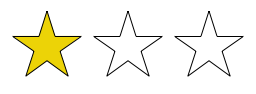
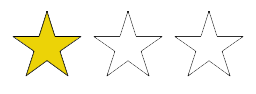
made base code for animating stars in regrowphase

diff --git a/web/source/regrowthUI.dart b/web/source/regrowthUI.dart
@@ -1,0 +1,154 @@
+part of TOTC;
+
+class EcosystemBadge extends Sprite implements Animatable{
+  
+  ResourceManager _resourceManager;
+  Juggler _juggler;
+  Game _game;
+  Ecosystem _ecosystem;
+  
+  Bitmap foodWeb;
+  Bitmap stars0;
+  Bitmap stars1;
+  Bitmap stars2;
+  Bitmap stars3;
+  
+  
+  var _sardineStatusText;
+  var _tunaStatusText;
+  var _sharkStatusText;
+  
+  int rating, animatedRating;
+      
+  EcosystemBadge(this._resourceManager, this._juggler, this._game, this._ecosystem) {
+  
+    initalizeObjects();
+
+  }
+  
+  bool advanceTime(num time){
+    return true;
+  }
+  
+  void showBadge(){
+    
+    rating = 2;
+    animatedRating = 0;
+    Tween t1 = new Tween(foodWeb, 1, TransitionFunction.linear);
+          t1.animate.alpha.to(1);
+    Tween t2 = new Tween(stars0, 1, TransitionFunction.linear);
+          t2.animate.alpha.to(1);
+          t2.onComplete = showStars;
+    _juggler.add(t1);
+    _juggler.add(t2);
+    
+    
+    
+    for(int i = 0; i < rating; i++){
+      
+    }
+    
+  }
+  
+  void hideBadge(){
+//    if(contains(foodWeb)) removeChild(foodWeb);
+  }
+  
+  void showStars(){
+    if(animatedRating == rating) return;
+    else{
+      
+      Bitmap toShow;
+      
+      if(animatedRating == 0) toShow = stars1;
+      else if(animatedRating == 1) toShow = stars2;
+      else if(animatedRating == 2) toShow = stars3;
+      
+      Tween t1 = new Tween(toShow, 1, TransitionFunction.easeInOutQuadratic);
+      t1.animate.alpha.to(1);
+      t1.onComplete = showStars;
+      _juggler.add(t1);
+      animatedRating++;
+    }
+    
+  }
+  
+  int determineRating(){
+    int rating;
+    
+    int sardineCount = _ecosystem._fishCount[Ecosystem.SARDINE];
+    int tunaCount = _ecosystem._fishCount[Ecosystem.TUNA];
+    int sharkCount = _ecosystem._fishCount[Ecosystem.SHARK];
+
+    if (sardineCount < 50)
+      _sardineStatusText = "Sardine populuation is endangered";
+    else if (sardineCount > Ecosystem.MAX_SARDINE-250)
+      _sardineStatusText = "Sardines are overpopulated";
+    else
+      _sardineStatusText = null;
+    
+    if (tunaCount < 50)
+      _tunaStatusText = "Tuna populuation is endangered";
+    else if (tunaCount > Ecosystem.MAX_TUNA-250)
+      _tunaStatusText = "Tunas are overpopulated";
+    else
+      _tunaStatusText = null;
+    
+    if (sharkCount < 50)
+      _sharkStatusText = "Shark populuation is endangered";
+    else if (sharkCount > Ecosystem.MAX_SARDINE-250)
+      _sharkStatusText = "Sharks are overpopulated";
+    else
+      _sharkStatusText = null;
+    
+    
+    
+    return 2;
+  }
+  
+  
+  void initalizeObjects(){
+    foodWeb = new Bitmap(_resourceManager.getBitmapData('foodWeb'));
+    foodWeb..pivotX = foodWeb.width/2
+           ..pivotY = foodWeb.height/2
+           ..x = _game.width/2 -100
+           ..y = _game.height/2
+           ..alpha = 0;
+    addChild(foodWeb);
+    
+    stars0 = new Bitmap(_resourceManager.getBitmapData('stars0'));
+    stars0..pivotX = stars0.width/2
+           ..pivotY = stars0.height/2
+           ..x = _game.width/2
+           ..y = _game.height/2
+           ..alpha = 0;
+    addChild(stars0);
+    
+    
+    stars1 = new Bitmap(_resourceManager.getBitmapData('stars1'));
+    stars1..pivotX = stars1.width/2
+           ..pivotY = stars1.height/2
+           ..x = _game.width/2
+           ..y = _game.height/2
+           ..alpha = 0;
+    addChild(stars1);
+    
+    
+    stars2 = new Bitmap(_resourceManager.getBitmapData('stars2'));
+    stars2..pivotX = stars2.width/2
+           ..pivotY = stars2.height/2
+           ..x = _game.width/2
+           ..y = _game.height/2
+           ..alpha = 0;
+    addChild(stars2);
+    
+    stars3 = new Bitmap(_resourceManager.getBitmapData('stars3'));
+    stars3..pivotX = stars3.width/2
+           ..pivotY = stars3.height/2
+           ..x = _game.width/2
+           ..y = _game.height/2
+           ..alpha = 0;
+    addChild(stars3);
+    
+  }
+}

diff --git a/web/source/game.dart b/web/source/game.dart
@@ -6,9 +6,9 @@ class Game extends Sprite implements Animatable{
   static const BUY_PHASE = 2;
   static const REGROWTH_PHASE = 3;
   
-  static const FISHING_TIMER_WIDTH = 150;
-  static const BUY_TIMER_WIDTH = 150;
-  static const REGROWTH_TIMER_WIDTH = 15;
+  static const FISHING_TIMER_WIDTH = 15;
+  static const BUY_TIMER_WIDTH = 15;
+  static const REGROWTH_TIMER_WIDTH = 150;
   
   static const timerPieRadius = 60;
   static const TUNA = 0;
@@ -18,7 +18,7 @@ class Game extends Sprite implements Animatable{
   //Timer Type
   static const BAR_TIMER = 0;
   static const PIE_TIMER = 1;
-  num timerType = PIE_TIMER;
+  num timerType = PIE_TIMER; // TOGGLE VARIABLE
   Bitmap pieTimerBitmap;
   
   ResourceManager _resourceManager;
@@ -48,9 +48,16 @@ class Game extends Sprite implements Animatable{
   int moneyTimer = 0;
   int moneyTimerMax = 2;
 
+  //REGROWTH INFO
+  static const LINE_GRAPH_INFO = 0;
+  static const BADGE_STAR_INFO = 1;
+  num regrowthInfoType = BADGE_STAR_INFO; // TOGGLE VARIABLE
+  
   Graph _teamAGraph, _teamBGraph;
   int _graphTimerMax = 25;
   int _graphTimer=0;
+  
+  EcosystemBadge badge;
   
   Shape timerGraphicA,timerGraphicB, timerPie;
   Shape sardineBar, tunaBar, sharkBar;
@@ -65,6 +72,8 @@ class Game extends Sprite implements Animatable{
   
   // Slider _teamASlider, _teamBSlider;
   // int sliderPrompt = 6;
+  
+ 
   
   Game(ResourceManager resourceManager, Juggler juggler, int w, int h) {
     _resourceManager = resourceManager;
@@ -86,6 +95,8 @@ class Game extends Sprite implements Animatable{
     _mask.width = width;
     _mask.height = height;
 
+    badge = new EcosystemBadge(_resourceManager, _juggler, this, _ecosystem);
+    
     addChild(_background);
     addChild(_ecosystem);
     addChild(_mask);
@@ -103,9 +114,18 @@ class Game extends Sprite implements Animatable{
     if (timerGraphicA.width<4) _nextSeason();
     else _decreaseTimer();
     
-    if (phase==REGROWTH_PHASE)
-      if (_graphTimer>_graphTimerMax) _redrawGraph();
-      else _graphTimer++;
+    
+    //Display growth information
+    if (phase==REGROWTH_PHASE){
+      
+      if(regrowthInfoType == LINE_GRAPH_INFO){
+        if (_graphTimer>_graphTimerMax) _redrawGraph();
+        else _graphTimer++;
+      }
+      else if (regrowthInfoType == BADGE_STAR_INFO){
+
+      }
+    }
     
     //Update the population bar graph size
     sardineBar.height = _ecosystem._fishCount[SARDINE]/2;
@@ -219,14 +239,21 @@ class Game extends Sprite implements Animatable{
       timerGraphicB.graphics.fillColor(Color.DarkRed);
       timerGraphicB.width = REGROWTH_TIMER_WIDTH;
       timerTextB.text = "Regrowth season";
+      
+      addChild(badge);
+      badge.showBadge();
+      
     }
     else if (phase==REGROWTH_PHASE) {
       phase = BUY_PHASE;
+      
+     
       
       teamAMoneyText.alpha = 1;
       teamBMoneyText.alpha = 1;
       _fleet.alpha = 1;
       _fleet.hideDock();
+      if (contains(badge)) removeChild(badge);
       if (contains(_teamAGraph)) removeChild(_teamAGraph);
       if (contains(_teamBGraph)) removeChild(_teamBGraph);
       

diff --git a/web/index.dart b/web/index.dart
@@ -18,6 +18,7 @@ part 'source/console.dart';
 part 'source/slider.dart';
 part 'source/graph.dart';
 part 'source/offseason.dart';
+part 'source/regrowthUI.dart';
 
 void main() {
   int height = html.window.innerHeight-20;
@@ -86,7 +87,12 @@ void main() {
   resourceManager.addBitmapData("tunaIcon", "images/tunaIcon.png");
   resourceManager.addBitmapData("sharkIcon", "images/sharkIcon.png");
   resourceManager.addBitmapData("timer", "images/timer.png");
-  
+  resourceManager.addBitmapData("foodWeb", "images/foodWeb.png");
+  resourceManager.addBitmapData("stars0", "images/stars0.png");
+  resourceManager.addBitmapData("stars1", "images/stars1.png");
+  resourceManager.addBitmapData("stars2", "images/stars2.png");
+  resourceManager.addBitmapData("stars3", "images/stars3.png");
+
   
   
   Multitouch.inputMode = MultitouchInputMode.TOUCH_POINT;
